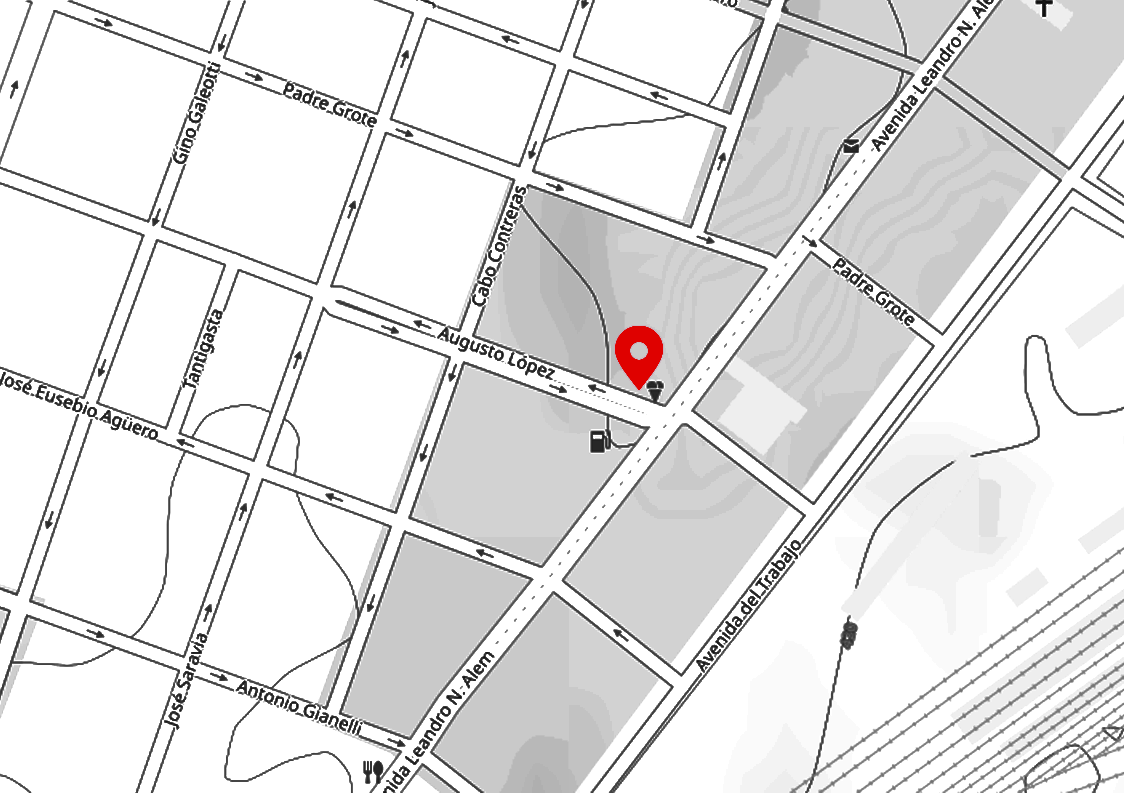
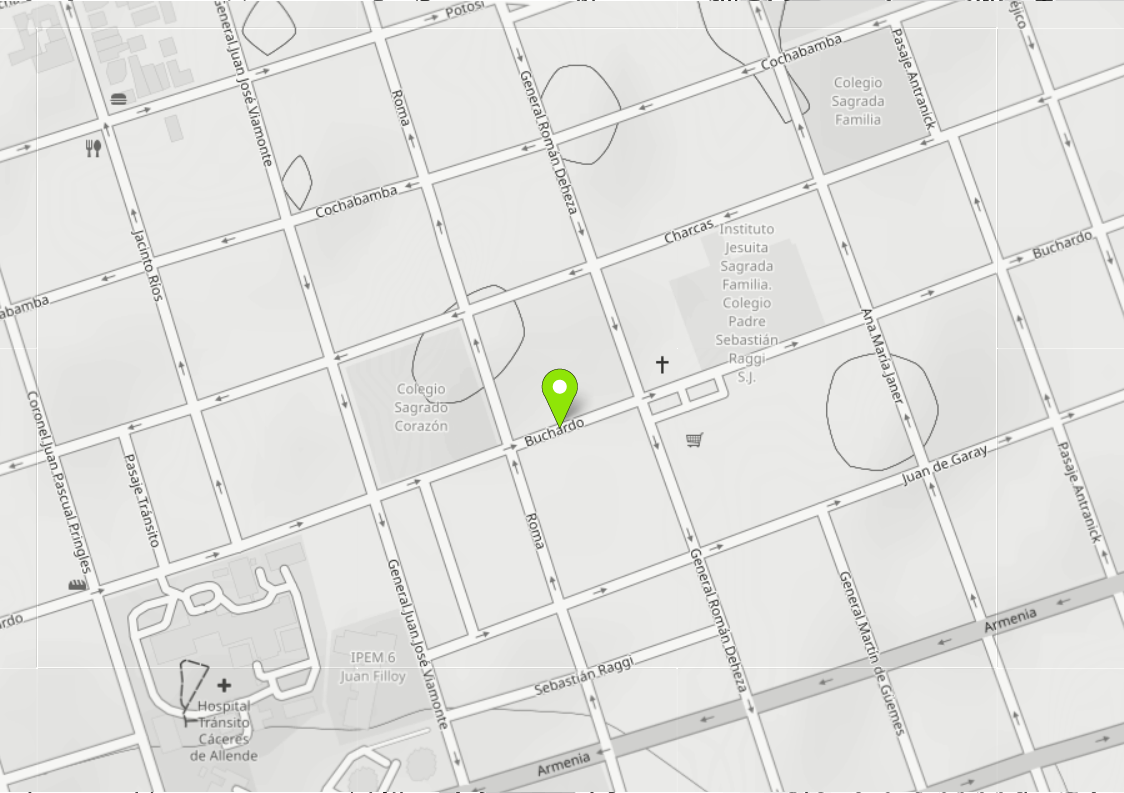
new location

diff --git a/src/app/_components/Footer/Footer.tsx b/src/app/_components/Footer/Footer.tsx
@@ -62,7 +62,7 @@ const Footer = () => {
                             </span>{" "}
                             CON CITA PREVIA EN
                             <br />
-                            AUGUSTO LÓPEZ 1067, CÓRDOBA AR
+                            BUCHARDO 1531, CÓRDOBA AR
                         </p>
 
                         <div className="w-full flex flex-col [&>a]:font-anton [&>a]:text-3xl [&>a]:mobile:text-xl">
